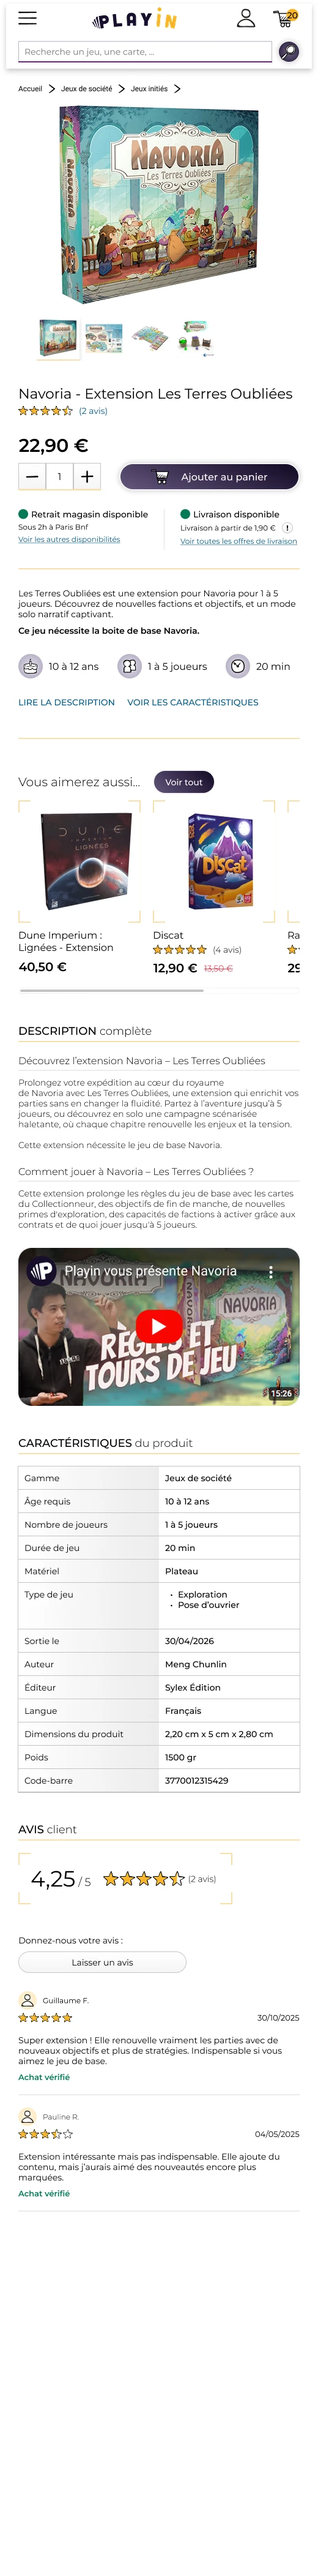
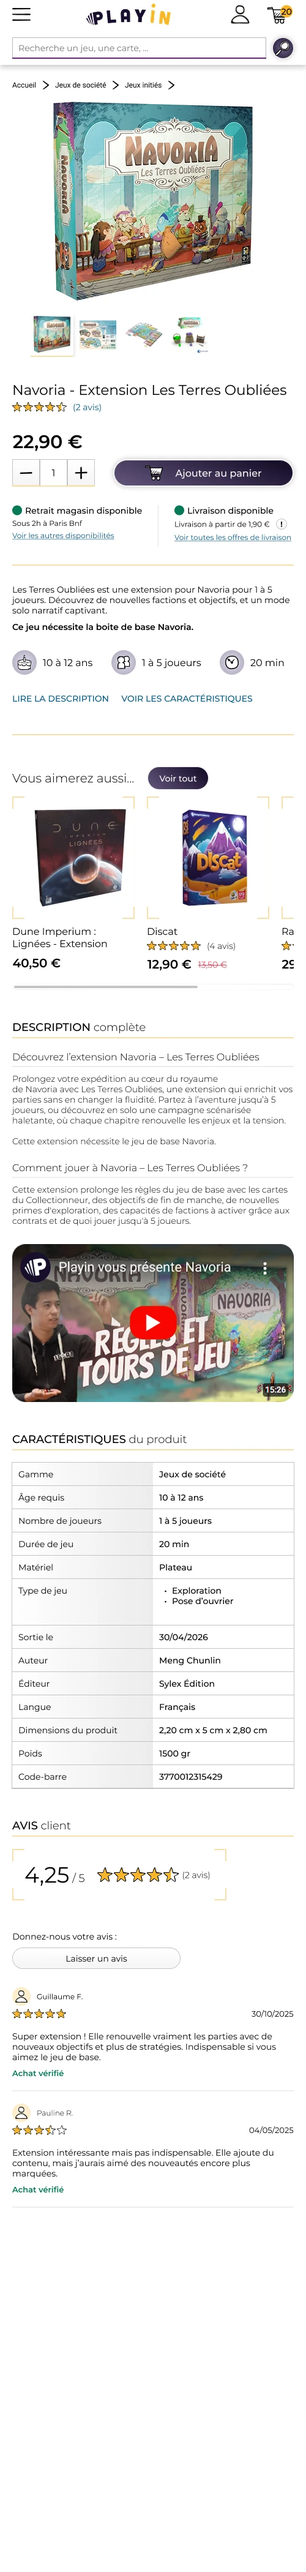
E-commerce : nouveaux rendus sans marges, barre de défilement à droite
Claude-Session: https://claude.ai/code/session_01THwdntjNiSuDEHoKbgxniL

diff --git a/projets/refonte-site-e-commerce-play-in/index.html b/projets/refonte-site-e-commerce-play-in/index.html
@@ -257,15 +257,15 @@
         <div class="st-wfs">
           <figure class="st-wf st-wf--full">
             <figcaption><span class="st-wf__num">01</span><strong>Accueil</strong>Promotions, univers de jeux et sélections dès l’arrivée</figcaption>
-            <div class="st-wf__pair"><div class="st-wf__col"><span class="st-wf__label">Desktop</span><div class="st-wf__desk st-scroll" tabindex="0" role="region" aria-label="Accueil desktop, défilable"><img src="../../assets/img/play-in-ecommerce/accueil-desktop.webp" alt="Page d’accueil desktop : mises en avant, univers de jeux et sélections de produits" width="1800" height="6366" loading="lazy"></div></div><div class="st-wf__col"><span class="st-wf__label">Mobile</span><div class="st-wf__mob st-scroll" tabindex="0" role="region" aria-label="Accueil mobile, défilable"><img src="../../assets/img/play-in-ecommerce/accueil-mobile.webp" alt="Page d’accueil en version mobile" width="900" height="9010" loading="lazy"></div></div></div>
+            <div class="st-wf__pair"><div class="st-wf__col"><span class="st-wf__label">Desktop</span><div class="st-wf__desk st-scroll" tabindex="0" role="region" aria-label="Accueil desktop, défilable"><img src="../../assets/img/play-in-ecommerce/accueil-desktop.webp" alt="Page d’accueil desktop : mises en avant, univers de jeux et sélections de produits" width="1351" height="5069" loading="lazy"></div></div><div class="st-wf__col"><span class="st-wf__label">Mobile</span><div class="st-wf__mob st-scroll" tabindex="0" role="region" aria-label="Accueil mobile, défilable"><img src="../../assets/img/play-in-ecommerce/accueil-mobile.webp" alt="Page d’accueil en version mobile" width="500" height="6563" loading="lazy"></div></div></div>
           </figure>
           <figure class="st-wf st-wf--full">
             <figcaption><span class="st-wf__num">02</span><strong>Catalogue</strong>Filtres, tri et chargement progressif des résultats</figcaption>
-            <div class="st-wf__pair"><div class="st-wf__col"><span class="st-wf__label">Desktop</span><div class="st-wf__desk st-scroll" tabindex="0" role="region" aria-label="Catalogue desktop, défilable"><img src="../../assets/img/play-in-ecommerce/ui/catalogue-d.webp" alt="Catalogue des jeux de société avec filtres, tri et grille de produits" width="1520" height="2052" loading="lazy"></div></div><div class="st-wf__col"><span class="st-wf__label">Mobile</span><div class="st-wf__mob st-scroll" tabindex="0" role="region" aria-label="Catalogue mobile, défilable"><img src="../../assets/img/play-in-ecommerce/ui/catalogue-m.webp" alt="Catalogue des jeux de société en version mobile" width="500" height="2760" loading="lazy"></div></div></div>
+            <div class="st-wf__pair"><div class="st-wf__col"><span class="st-wf__label">Desktop</span><div class="st-wf__desk st-scroll" tabindex="0" role="region" aria-label="Catalogue desktop, défilable"><img src="../../assets/img/play-in-ecommerce/ui/catalogue-d.webp" alt="Catalogue des jeux de société avec filtres, tri et grille de produits" width="1500" height="2046" loading="lazy"></div></div><div class="st-wf__col"><span class="st-wf__label">Mobile</span><div class="st-wf__mob st-scroll" tabindex="0" role="region" aria-label="Catalogue mobile, défilable"><img src="../../assets/img/play-in-ecommerce/ui/catalogue-m.webp" alt="Catalogue des jeux de société en version mobile" width="500" height="2760" loading="lazy"></div></div></div>
           </figure>
           <figure class="st-wf st-wf--full">
             <figcaption><span class="st-wf__num">03</span><strong>Page produit</strong>Prix, disponibilité et ajout au panier dès le premier écran</figcaption>
-            <div class="st-wf__pair"><div class="st-wf__col"><span class="st-wf__label">Desktop</span><div class="st-wf__desk st-scroll" tabindex="0" role="region" aria-label="Page produit desktop, défilable"><img src="../../assets/img/play-in-ecommerce/ui/produit-d.webp" alt="Page produit desktop : visuels, prix, disponibilités, description, caractéristiques et avis" width="1300" height="2732" loading="lazy"></div></div><div class="st-wf__col"><span class="st-wf__label">Mobile</span><div class="st-wf__mob st-scroll" tabindex="0" role="region" aria-label="Page produit mobile, défilable"><img src="../../assets/img/play-in-ecommerce/ui/produit-m.webp" alt="Page produit en version mobile" width="520" height="4207" loading="lazy"></div></div></div>
+            <div class="st-wf__pair"><div class="st-wf__col"><span class="st-wf__label">Desktop</span><div class="st-wf__desk st-scroll" tabindex="0" role="region" aria-label="Page produit desktop, défilable"><img src="../../assets/img/play-in-ecommerce/ui/produit-d.webp" alt="Page produit desktop : visuels, prix, disponibilités, description, caractéristiques et avis" width="1280" height="2726" loading="lazy"></div></div><div class="st-wf__col"><span class="st-wf__label">Mobile</span><div class="st-wf__mob st-scroll" tabindex="0" role="region" aria-label="Page produit mobile, défilable"><img src="../../assets/img/play-in-ecommerce/ui/produit-m.webp" alt="Page produit en version mobile" width="500" height="4201" loading="lazy"></div></div></div>
           </figure>
           <figure class="st-wf st-wf--full">
             <figcaption><span class="st-wf__num">04</span><strong>Panier</strong>Récapitulatif toujours visible et frais de port estimés</figcaption>
@@ -274,8 +274,8 @@
           <figure class="st-wf">
             <figcaption><span class="st-wf__num">05</span><strong>Menu</strong>Du menu principal au sous-menu d’une gamme : cartes, produits et guides en deux clics</figcaption>
             <div class="st-wf__stack">
-              <div class="st-wf__col"><span class="st-wf__label">1. Menu principal</span><div class="st-wf__img"><img src="../../assets/img/play-in-ecommerce/ui/menu-d.webp" alt="Menu principal ouvert : gammes de produits, sélections et services" width="1220" height="1080" loading="lazy"></div></div>
-              <div class="st-wf__col"><span class="st-wf__label">2. Menu d’une gamme</span><div class="st-wf__img"><img src="../../assets/img/play-in-ecommerce/ui/menu-magic-d.webp" alt="Sous-menu Magic The Gathering : recherche de cartes, produits et guides de jeu" width="1457" height="960" loading="lazy"></div></div>
+              <div class="st-wf__col"><span class="st-wf__label">1. Menu principal</span><div class="st-wf__img"><img src="../../assets/img/play-in-ecommerce/ui/menu-d.webp" alt="Menu principal ouvert : gammes de produits, sélections et services" width="1200" height="1070" loading="lazy"></div></div>
+              <div class="st-wf__col"><span class="st-wf__label">2. Menu d’une gamme</span><div class="st-wf__img"><img src="../../assets/img/play-in-ecommerce/ui/menu-magic-d.webp" alt="Sous-menu Magic The Gathering : recherche de cartes, produits et guides de jeu" width="1451" height="955" loading="lazy"></div></div>
             </div>
           </figure>
           <figure class="st-wf">

diff --git a/assets/css/style.css b/assets/css/style.css
@@ -597,6 +597,6 @@ ul { padding: 0; list-style: none; }
 @media (max-width: 750px) { .st-wf--full .st-wf__pair .st-scroll { height: 340px; } }
 /* Défilement synchronisé desktop/mobile : une seule barre visible sur desktop */
 @media (min-width: 1024px) {
-  .st-wf__pair--sync .st-wf__col + .st-wf__col .st-scroll { scrollbar-width: none; }
-  .st-wf__pair--sync .st-wf__col + .st-wf__col .st-scroll::-webkit-scrollbar { display: none; }
+  .st-wf__pair--sync .st-wf__col:first-child .st-scroll { scrollbar-width: none; }
+  .st-wf__pair--sync .st-wf__col:first-child .st-scroll::-webkit-scrollbar { display: none; }
 }

diff --git a/assets/js/sync-scroll.js b/assets/js/sync-scroll.js
@@ -1,5 +1,5 @@
-/* Desktop : les captures desktop et mobile d'une même page défilent ensemble,
-   avec une seule barre de défilement (celle de la version desktop). */
+/* Desktop : les captures desktop et mobile d’une même page défilent ensemble,
+   avec une seule barre de défilement, à droite (celle de la version mobile). */
 (function () {
   var mq = window.matchMedia('(min-width: 1024px)');
   document.querySelectorAll('.st-wf__pair').forEach(function (pair) {
